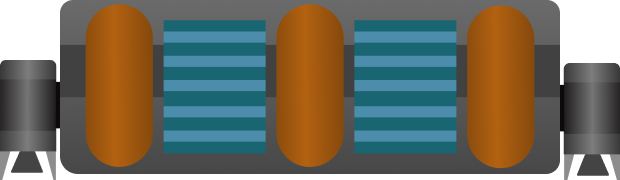
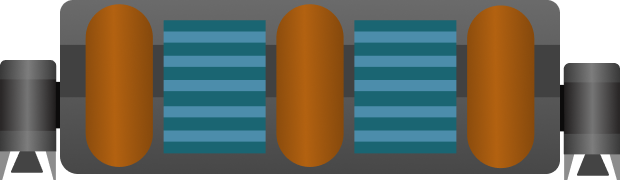
add thruster textures

diff --git a/public/main.js b/public/main.js
@@ -319,6 +319,15 @@
     uniform vec2 shipSize;
 
     uniform sampler2D img;
+    uniform sampler2D flame;
+
+    uniform vec2 lr;
+
+
+    uniform float u_time;
+    mat2 rot(float angle) {
+      return mat2(cos(angle), -sin(angle), sin(angle), cos(angle));
+    }
 
     void main() {
 
@@ -331,6 +340,39 @@
 
  //   vec4 color = vec4(1.0 - smoothstep( 0.08, 0.09, distance(position.xy, vec2(0.) )), 1., 1., 1.);
     gl_FragColor = color;
+
+    // gl_FragColor.xw += step(distance(texPos, vec2(0.05, 0.1)), 0.1);
+    // gl_FragColor.xw += step(distance(texPos, vec2(1.-0.05, 0.1)), 0.1);
+
+    vec2 t1 = vec2(0.00, 0.1);
+    vec2 t2 = vec2(1.-0.09, 0.1);
+
+
+    vec2 ft1 = texPos - t1;
+    vec2 ft2 = texPos - t2;
+
+    ft1 *= rot(sin(u_time * 70.) * 0.02);
+    ft1.y /= abs(sin(u_time * 70.)* (0.03 + lr.x * 0.05) + 1.);
+
+    ft1.y /= abs(sin(u_time * 70. * (20. * lr.x))* (0.03 + lr.x * 0.05) + 1.);
+    ft2.y /= abs(sin(u_time * 70. * (20. * lr.y))* (0.03 + lr.y * 0.05) + 1.);
+
+
+    ft1 /= 0.1 ;
+    ft2 /= 0.1;
+
+    ft1.y *= 0.3 / (lr.x * 0.5 + 0.5);
+    ft2.y *= 0.3 / (lr.y *0.5 + 0.5);
+
+    ft1.y = 0.8 + ft1.y;
+    ft2.y = 0.85 + ft2.y;
+
+    vec4 ft1c = texture2D(flame, ft1);
+    vec4 ft2c = texture2D(flame, ft2);
+
+    gl_FragColor += ft1c;
+    gl_FragColor += ft2c;
+
     }
     `,
   );
@@ -382,12 +424,19 @@
   const shipTexImage = new Image();
   shipTexImage.src = "shipwhole.png";
 
+  const flame = new Image();
+  flame.src = "flame.png";
+
   await new Promise((resolve, _) => {
     bg.onload = resolve;
   });
 
   await new Promise((resolve, _) => {
     shipTexImage.onload = resolve;
+  });
+
+  await new Promise((resolve, _) => {
+    flame.onload = resolve;
   });
 
   gl.useProgram(pg);
@@ -438,16 +487,30 @@
   gl.texParameteri(gl.TEXTURE_2D, gl.TEXTURE_WRAP_S, gl.CLAMP_TO_EDGE);
   gl.texParameteri(gl.TEXTURE_2D, gl.TEXTURE_WRAP_T, gl.CLAMP_TO_EDGE);
 
+  gl.activeTexture(gl.TEXTURE2);
+  const flameTex = gl.createTexture();
+  gl.bindTexture(gl.TEXTURE_2D, flameTex);
+
+  gl.texImage2D(gl.TEXTURE_2D, 0, gl.RGBA, gl.RGBA, gl.UNSIGNED_BYTE, flame);
+
+  gl.texParameteri(gl.TEXTURE_2D, gl.TEXTURE_MIN_FILTER, gl.LINEAR);
+  gl.texParameteri(gl.TEXTURE_2D, gl.TEXTURE_WRAP_S, gl.CLAMP_TO_EDGE);
+  gl.texParameteri(gl.TEXTURE_2D, gl.TEXTURE_WRAP_T, gl.CLAMP_TO_EDGE);
+
   const shipTexU = gl.getUniformLocation(shipg, "img");
   gl.uniform1i(shipTexU, 1);
+
+  const flameU = gl.getUniformLocation(shipg, "flame");
+  gl.uniform1i(flameU, 2);
 
   const shipvbuf = gl.createBuffer();
   gl.bindBuffer(gl.ARRAY_BUFFER, shipvbuf);
   let shipvs = [];
 
   for (const v of ship.vertices) {
+    const y = screenToClipY(v.y) - screenToClipY(ship.position.y);
     shipvs.push(
-      screenToClipY(v.y) - screenToClipY(ship.position.y),
+      y < 0 ? y - 100 / width : y,
       screenToClipX(v.x) - screenToClipX(ship.position.x),
     );
   }
@@ -474,10 +537,17 @@
   );
 
   const shipWidth = 250 + 30 + 30;
-  const shipHeight = 89;
+  const shipHeight = 94.5;
 
   const shipSize = gl.getUniformLocation(shipg, "shipSize");
+
   gl.uniform2f(shipSize, shipWidth / width / 2, shipHeight / height / 2);
+
+  const u_time = gl.getUniformLocation(shipg, "u_time");
+  gl.uniform1f(u_time, 0 / 1000);
+
+  const lr = gl.getUniformLocation(shipg, "lr");
+  gl.uniform2f(lr, leftThruster ? 1 : 0, rightThruster ? 1 : 0);
 
   run(0);
   function run(t) {
@@ -493,8 +563,6 @@
     gl.clear(gl.COLOR_BUFFER_BIT);
     gl.useProgram(pg);
 
-    gl.activeTexture(gl.TEXTURE0);
-
     gl.bindBuffer(gl.ARRAY_BUFFER, posBuf);
     gl.vertexAttribPointer(vattrib, 2, gl.FLOAT, false, 0, 0);
 
@@ -502,7 +570,6 @@
     gl.drawArrays(gl.TRIANGLE_STRIP, 0, 5);
 
     gl.useProgram(shipg);
-    gl.activeTexture(gl.TEXTURE1);
     gl.bindBuffer(gl.ARRAY_BUFFER, shipvbuf);
     // shipvs = [];
     // for (const v of ship.vertices) {
@@ -520,6 +587,8 @@
       screenToClipX(ship.position.x),
       screenToClipY(ship.position.y),
     );
+    gl.uniform2f(lr, leftThruster ? 1 : 0, rightThruster ? 1 : 0);
+    gl.uniform1f(u_time, t / 1000);
 
     gl.drawArrays(gl.TRIANGLE_FAN, 0, shipvs.length / 2);
 
